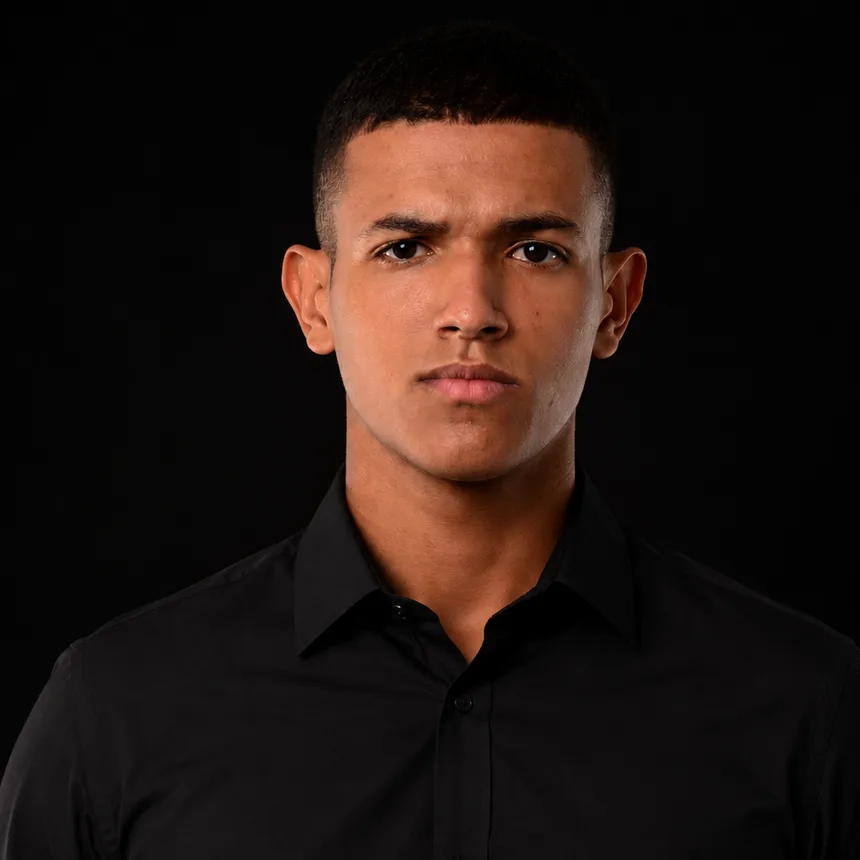
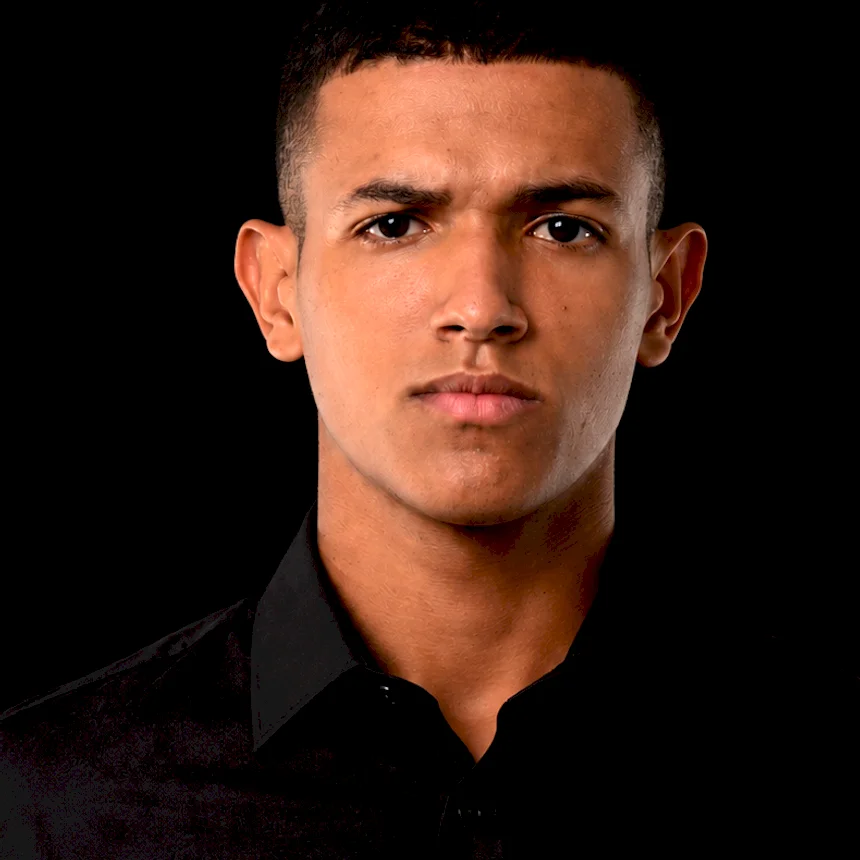
fix(site): retrato do fundador otimizado para halftone e carrossel com os tres fundadores

diff --git a/packages/zyra-website/src/sections/founders/FoundersCarousel.tsx b/packages/zyra-website/src/sections/founders/FoundersCarousel.tsx
@@ -65,6 +65,19 @@ const PortraitFrame = styled.div`
   width: 100%;
 `;
 
+const InitialsMark = styled.div`
+  ${typeRampDeclarations('headingMd')}
+  align-items: center;
+  border: 1px solid ${semanticColor.lineStrong};
+  border-radius: ${radius(2)};
+  display: flex;
+  font-family: ${fontFamily('sans')};
+  font-weight: ${FONT_WEIGHT.light};
+  height: 100%;
+  justify-content: center;
+  width: 100%;
+`;
+
 const AuthorMeta = styled.div`
   max-width: 253px;
 `;
@@ -204,6 +217,14 @@ const NavGroup = styled.div`
   justify-content: start;
 `;
 
+const getInitials = (fullName: string) => {
+  const words = fullName.split(' ').filter((word) => word !== '');
+  const first = words.at(0) ?? '';
+  const last = words.length > 1 ? (words.at(-1) ?? '') : '';
+
+  return `${first.charAt(0)}${last.charAt(0)}`.toUpperCase();
+};
+
 export function FoundersCarousel({
   founders,
 }: {
@@ -227,10 +248,14 @@ export function FoundersCarousel({
       <LeftColumn>
         <AuthorCard>
           <PortraitFrame>
-            <FounderPortrait
-              alt={i18n._(msg`Retrato de ${authorName}`)}
-              src={current.portraitSrc}
-            />
+            {current.portraitSrc ? (
+              <FounderPortrait
+                alt={i18n._(msg`Retrato de ${authorName}`)}
+                src={current.portraitSrc}
+              />
+            ) : (
+              <InitialsMark aria-hidden>{getInitials(authorName)}</InitialsMark>
+            )}
           </PortraitFrame>
           <AuthorMeta>
             <NameRow>

diff --git a/packages/zyra-website/src/sections/founders/founders.data.ts b/packages/zyra-website/src/sections/founders/founders.data.ts
@@ -5,7 +5,8 @@ export type FounderRecord = {
   bio: MessageDescriptor;
   designation: MessageDescriptor;
   name: MessageDescriptor;
-  portraitSrc: string;
+  // Founders without a photo yet render their initials in the portrait frame.
+  portraitSrc?: string;
 };
 
 export const FOUNDERS: readonly FounderRecord[] = [
@@ -14,5 +15,15 @@ export const FOUNDERS: readonly FounderRecord[] = [
     designation: msg`CEO e fundador, Horizon`,
     bio: msg`Daniel imaginou o Zyra e o levou de uma ideia a um produto completo. Como CEO da Horizon, une visão de produto, cuidado obsessivo com cada detalhe e a coragem de construir do zero um CRM pensado para equipes que querem vender mais com menos trabalho manual.`,
     portraitSrc: '/images/founders/daniel-lucas.webp',
+  },
+  {
+    name: msg`Thulio Leal`,
+    designation: msg`COO e cofundador, Horizon`,
+    bio: msg`Thulio é cofundador e COO da Horizon e contribuiu diretamente para o desenvolvimento do Zyra. Cuida para que a operação da empresa acompanhe a qualidade do produto, do primeiro contato à implementação na sua equipe.`,
+  },
+  {
+    name: msg`Rodrigo Asturian`,
+    designation: msg`Parceiro da Horizon e sócio do Zyra`,
+    bio: msg`Rodrigo Asturian é advogado e CEO da Asturian Associates, escritório internacional de advocacia especializado em proteção patrimonial e internacionalização de empresas. Parceiro da Horizon, é um dos donos do Zyra.`,
   },
 ];
